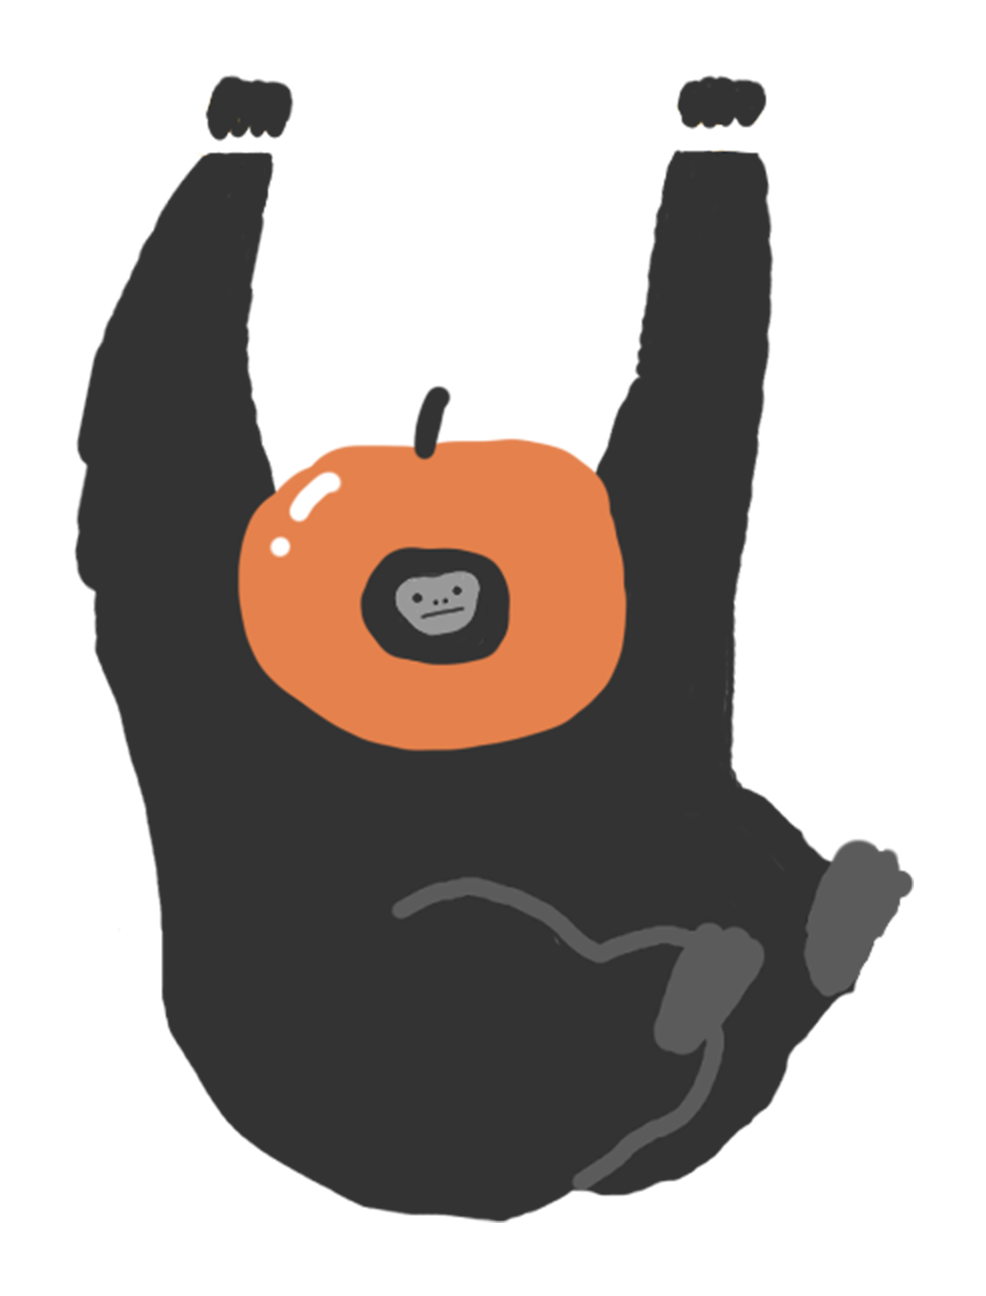
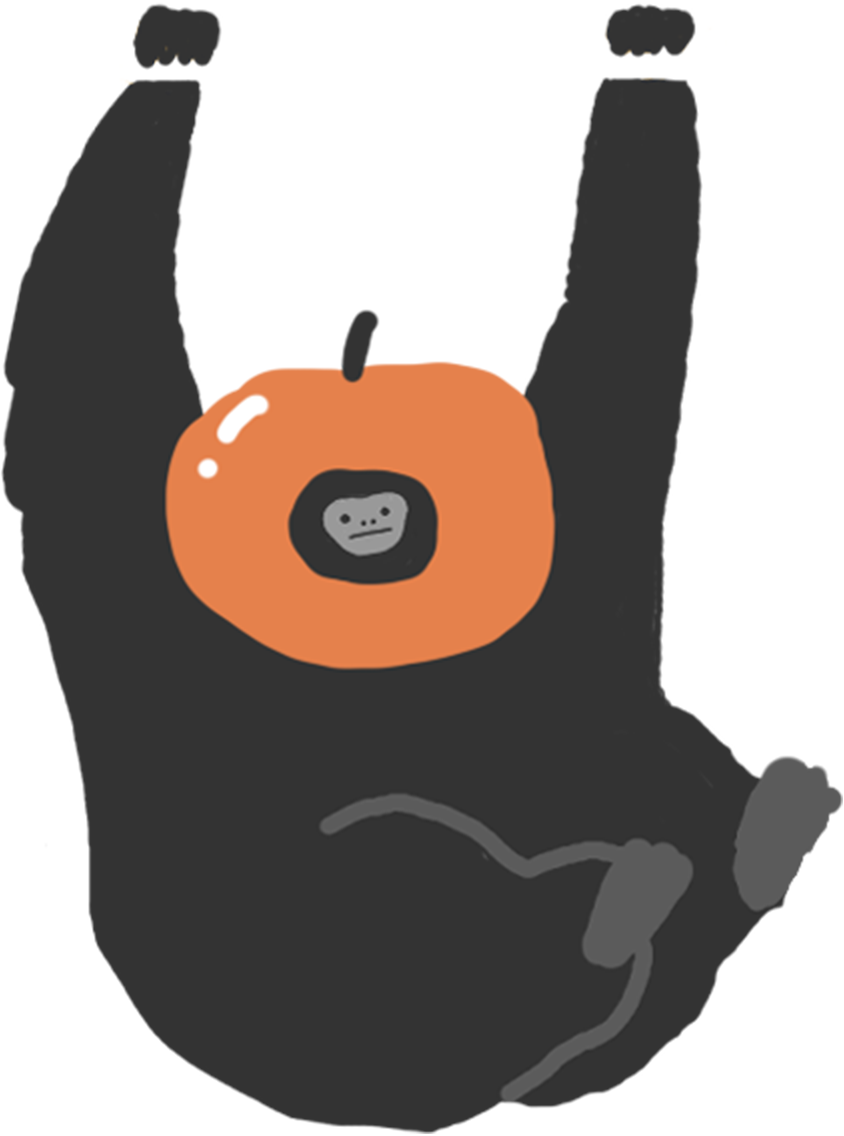
appleTime用のサル画像を光彩付きのものに戻し、描画サイズを調整

Changed region(s): [[0.0, 0.0, 1.0, 1.0], [0.3389, 0.4005, 0.5237, 0.5238]]

diff --git a/js/Saru.js b/js/Saru.js
@@ -76,6 +76,10 @@ class Saru {
   }
 
   draw() {
+    if(this.type === 3){//appleTimeのサルは少し大きめに描画（他のサルタイプと揃えるため）
+      this.ctx.drawImage(IMG_SARU[this.right][this.open][this.type], this.x * this.BLOCK_W, this.y * this.BLOCK_H -30, this.blockW * 1.12, this.blockH * 1.1);
+      return;
+    }
     this.ctx.drawImage(IMG_SARU[this.right][this.open][this.type], this.x * this.BLOCK_W, this.y * this.BLOCK_H, this.blockW, this.blockH);
   }
 

diff --git a/js/Config.js b/js/Config.js
@@ -4,7 +4,7 @@ class Config {
     this.GAME_SPEED = 1000 / 30; // FPS
     this.POP_INTERVAL = 400; // アイテムのリポップ間隔(ms)
     this.FALLING_INTERVAL = 200; // 落下速度(ms)
-    this.PROBABILITIES = [0.6, 0.1, 0.3];// banana,apple,untiの出現確率
+    this.PROBABILITIES = [0.1, 0.8, 0.1];// banana,apple,untiの出現確率
     // フィールド
     this.FIELD_COL = 10; // 列数
     this.FIELD_ROW = 20; // 行数
